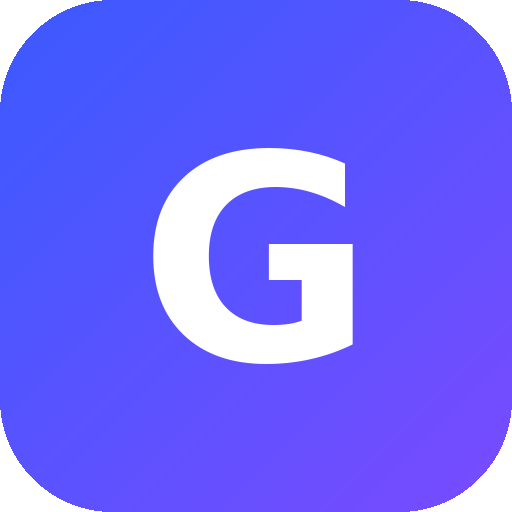
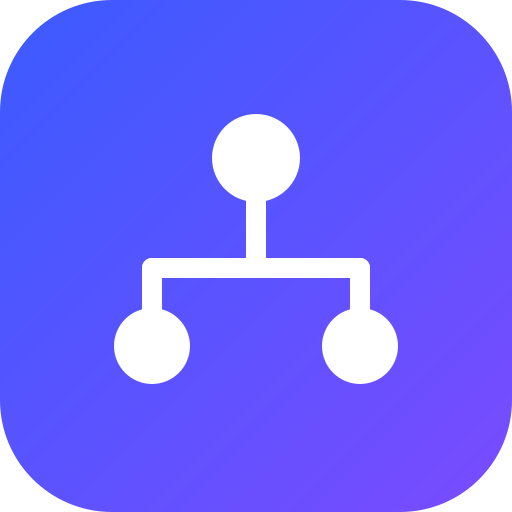
설치 아이콘을 회사명 무관한 조직도 심볼로 교체
- icon-192/512, maskable, apple-touch-icon을 "G" 대신
  파란→보라 그라데이션 위 흰색 조직도 트리 심볼로 교체
  (어떤 회사명이어도 어색하지 않도록 중립 아이콘 사용)
- manifest name "GroovePlay 조직도" → "조직도"
- 새 아이콘 반영 위해 서비스워커 캐시 v6→v7
- 헤더 로고/탭 파비콘은 기존대로 회사명 첫 글자 자동 표시 유지

Changed region(s): [[0.2188, 0.2188, 0.7812, 0.75]]

diff --git a/service-worker.js b/service-worker.js
@@ -1,5 +1,5 @@
 /* GroovePlay 조직도 PWA service worker */
-const CACHE = "grooveplay-org-v6";
+const CACHE = "grooveplay-org-v7";
 const ASSETS = [
   "./",
   "./index.html",
